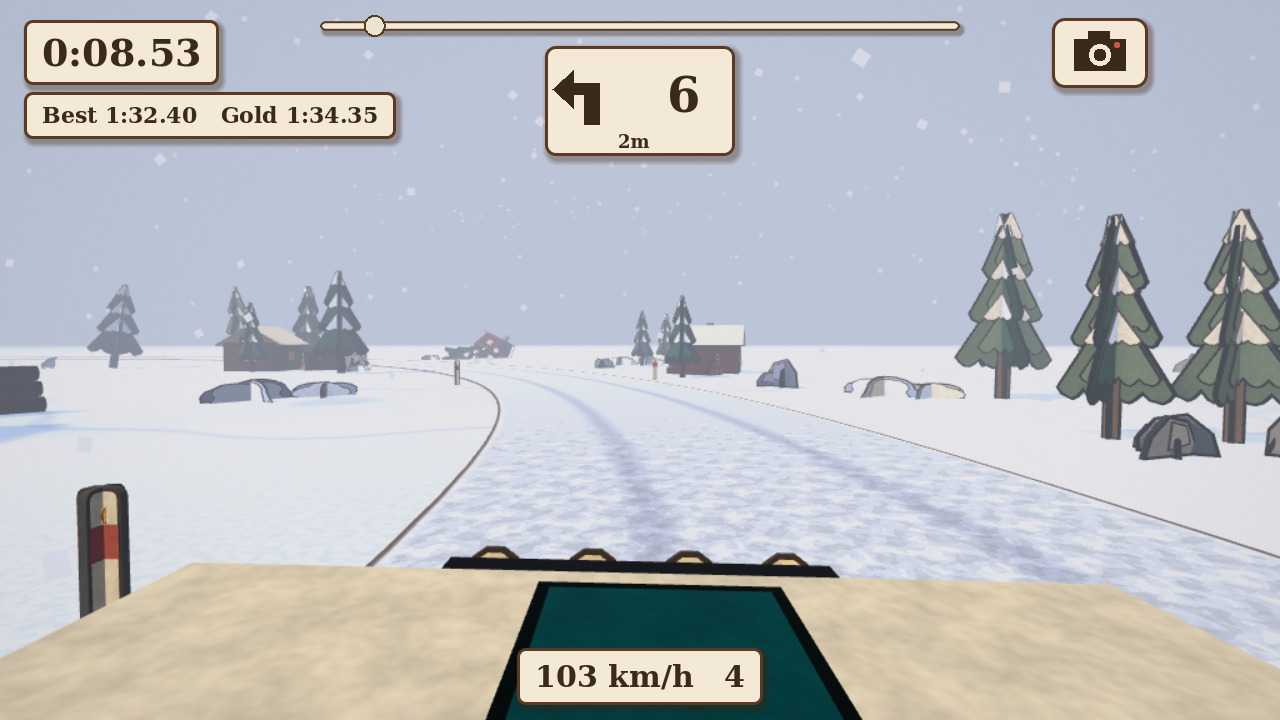
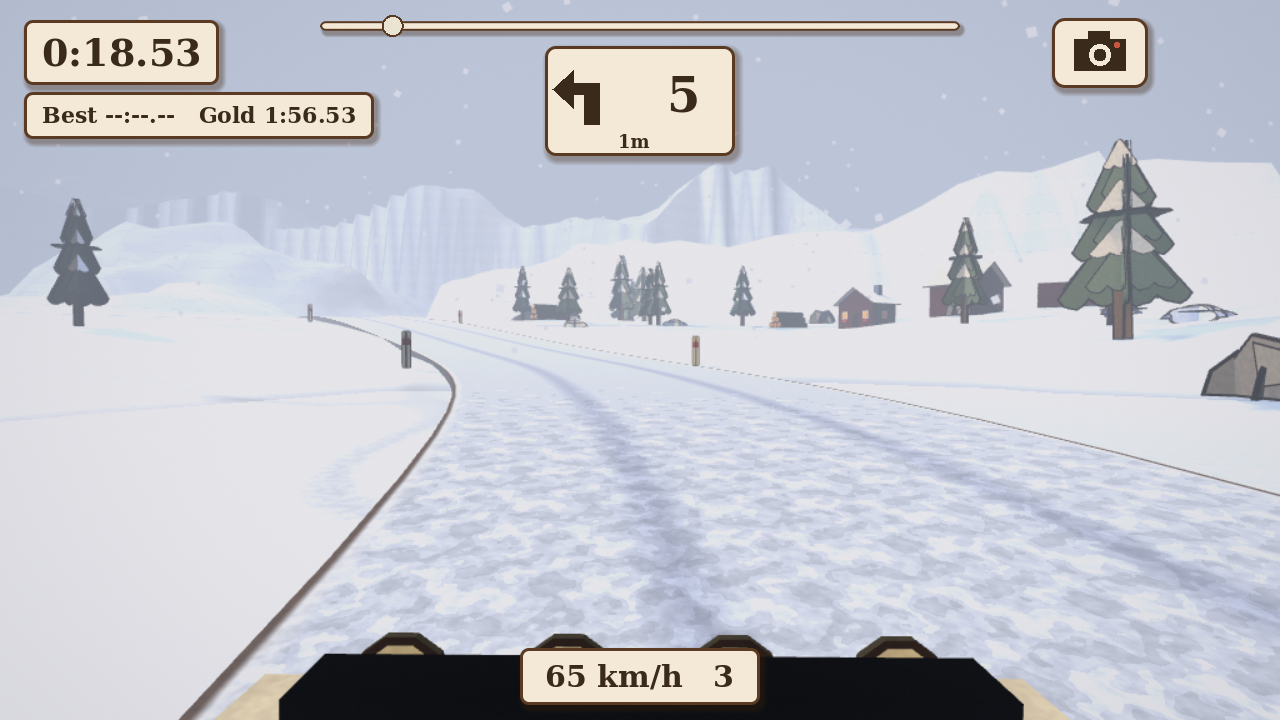
Photo mode, Time Trial ghost, liveries, visual damage, spectators jump back; README
Claude-Session: https://claude.ai/code/session_019LopR7CfQzTS2qzV1MAwgs

diff --git a/README.md b/README.md
@@ -20,7 +20,11 @@ screenshots.
 | ![](docs/screenshots/race_snow.png) | ![](docs/screenshots/race_taiga.png) |
 | **Jump with taped-off crowd** | **Water splash in Race vs AI** |
 | ![](docs/screenshots/jump.png) | ![](docs/screenshots/splash.png) |
-| **Bonnet view** | **High overhead view** |
+| **Night: headlights cast light and shadow** | **All 15 cars** |
+| ![](docs/screenshots/night.png) | ![](docs/screenshots/cars.png) |
+| **Cockpit view** | **Hills and stacked-card contours** |
+| ![](docs/screenshots/cockpit.png) | ![](docs/screenshots/terrain.png) |
+| **Bonnet view: Alpine climb** | **High overhead view** |
 | ![](docs/screenshots/bonnet.png) | ![](docs/screenshots/overhead.png) |
 | **Title (live diorama behind the menu)** | **Settings: presets, individual options, pop-up toggle** |
 | ![](docs/screenshots/title.png) | ![](docs/screenshots/settings.png) |
@@ -29,13 +33,19 @@ screenshots.
 
 | | |
 |---|---|
-| **Game modes** | **Time Trial** (best times, gold/silver/bronze medals), **Championship** (4 series of AI-contested stages with points: 10-8-6-4-2-1), **Race vs AI** (head-to-head on one stage, 3 or 5 opponents) |
-| **Stages** | 9 procedurally generated point-to-point stages: 3 dry (Meadow Run, Sandstone Canyon, Autumn Ridge), 3 rain (Moorland Mire, Pinewood Deluge, Harbour Lanes), 3 snow (Alpine Pass, Frozen Lakes, Twilight Taiga). Each one has its own palette, scenery set, light set and grip |
+| **Game modes** | **Time Trial** (best times, gold/silver/bronze medals and a ghost of your best run), **Championship** (6 series with points 10-8-6-4-2-1, including the always-at-night **Night Rally**), **Race vs AI** (head-to-head on one stage, 3 or 5 opponents) |
+| **Stages** | 27 procedurally generated point-to-point stages: 9 locations, each with a **Sprint (~1 km)**, **Classic (~2 km)** and **Marathon (~4 km)** layout. 3 dry (Meadow Run, Sandstone Canyon, Autumn Ridge), 3 rain (Moorland Mire, Pinewood Deluge, Harbour Lanes), 3 snow (Alpine Pass, Frozen Lakes, Twilight Taiga) |
+| **Altitude** | Every stage climbs, dips and rolls. A road altitude profile (overall climb, rolling undulation, maximum grade) and a landscape heightfield blend into each other. Hills, ridges and valleys rise and fall beside the road, drawn as stacked card contours. Climbs cost speed and descents add it, and crests can lift the car off the ground. Each location's layout and altitude are modelled on a real rally region: British farm lanes, Mexico / Acropolis mountain switchbacks, German vineyard ridges, Welsh moors, fast Finnish forest crests, Corsican coastal climbs, the Monte Carlo Col de Turini hairpin climb, the Swedish frozen lakes, Arctic forest |
+| **Time of day** | Day, Dusk or Night for any stage. At dusk and night every car's headlights light the road (the player's beam also casts shadows), lamp posts and cabin windows glow, and the shadows turn navy |
 | **Weather** | Rain: wet roads, puddles that splash and drag, paper rain streaks, about 72 % grip. Snow: paper snowflakes, cold lilac shadows, 49-56 % grip. Dry: dust trails |
-| **Cars** | 6 cars with different speed, acceleration, grip and handling: Pip 1300, Kestrel GT, Badger 4x4, Marten RS, Lynx Turbo, Otter Estate |
+| **Cars** | 15 original cars (no real makes or liveries) covering the classes found across rally games: 1960s classic (Ventura 60), 1970s Group 2 (Pip 1300, Comet 1600), 1980s Group B (Strega B, Tempest S1), Group S prototype (Wraith S), 1990s Group A (Marten RS, Kestrel GT), 2000s WRC (Lynx Turbo), modern Rally2 (Fennec R2) and Rally1 (Vortex R1), estate (Otter Estate), off-road 4x4 (Badger 4x4), trophy truck (Mule Trophy) and dune buggy (Sandhopper). Rear-drive cars slide under power, front-drive cars understeer, four-wheel drive is neutral, and off-road machines shrug off rough ground. 3 liveries each, and they pick up visible paper damage in crashes |
+| **Volumetric effects** | Dust, snow, spray, tyre and exhaust smoke (backfires, launches), chimney smoke and water-splash bursts are 3D faceted paper puffs that swell and fade, lit like the rest of the world. Low mist is layered cut-paper sheets lying in the valleys |
+| **Signage** | Fictional sponsor A-frame banners (FOLDLINE OIL, CARDSTOCK TYRES, CREASE COLA, PULPWORKS, SCISSOR SPEED, ORIGAMI AIR), billboards, warning boards before every hazard, kilometre boards, flags at the start and finish |
+| **Destructible props** | Marker posts, signs, banners, bales, crates, tape, bushes, snowbanks and chevrons break and tumble away when hit, then lie on the ground. Trees, rocks, logs and buildings stay solid. Spectators jump back when you come close |
+| **Photo mode** | From the pause menu: orbit a free camera, adjust blur, focus and warmth, hide the UI and save PNGs (to the phone's Pictures/Paper Rally folder where allowed, otherwise the app's photos folder) |
 | **Hazards** | Built paper ramps for **crests and jumps** (real airtime, landing thud and rumble), **water splashes** (drag, spray, splash sound), **hay-bale chicanes**, **loose surfaces** (gravel, mud, ice, deep snow patches with less grip), and **roadside obstacles**: marker posts, plus rocks, logs and bales on the inside of tight bends to punish corner cutting. Crowds stand behind tape at jumps and splashes and cheer as you pass |
 | **Co-driver** | Pace-note cards for each upcoming bend (direction, severity 1-6, hairpins) and for every hazard (JUMP, CREST, SPLASH, CHICANE, GRAVEL, MUD, ICE, DEEP SNOW) |
-| **Camera views** | Tap the **camera icon** (top right), press Back/LB on a controller or C on a keyboard to cycle: Chase, Close chase, Far chase, High overhead, Top-down and Bonnet. Bonnet is a low, wide view with a paper sky and fog |
+| **Camera views** | Tap the **camera icon** (top right), press Back/LB on a controller or C on a keyboard to cycle: Chase, Close chase, Far chase, High overhead, Top-down, Bonnet and **Cockpit**. Cockpit is an in-car view with a dashboard, pillars, a steering wheel that turns and a moving rev needle. Bonnet and Cockpit use a paper sky and fog |
 | **Living world** | Flocks of paper birds perch at fixed spots, pecking. They scatter when a car comes near, circle with flap-and-glide wingbeats while banking, then glide back down and land |
 | **Collisions** | Each car collides as its real box-shaped body, not a circle, so contact happens where the bodywork touches. Paper scraps burst from the contact point, and glancing blows nudge the car's yaw |
 | **Controllers** | Any Bluetooth or USB-C game controller (Xbox, PlayStation, 8BitDo and similar), with analog steering and triggers. All menus can be driven from the controller |
@@ -43,6 +53,31 @@ screenshots.
 | **Haptics** | Controller rumble for road texture, sliding, off-road, gear shifts, impacts, puddles, the countdown and the finish. Short, rate-limited phone vibration when no controller is connected. Strength slider and on/off toggles |
 | **Graphics settings** | Low / Medium / High presets plus individual options: render resolution, shadows, tilt-shift blur, MSAA, scenery density, draw distance, weather particles, paper fibre detail, 30/60 fps cap, FPS counter |
 | **Pop-up toggle** | *Settings → Graphics → Pop-up scenery animation*. **On**: every piece of scenery lies folded flat until it comes into the camera's view, then unfolds in staggered waves on a paper-flap spring, and folds away again once it is out of view. **Off**: the same paper scenery stands still and is batched into chunked MultiMeshes (far fewer draw calls). Switch it mid-race from the pause menu to compare |
+
+## Compared with art of rally
+
+Research into *art of rally* found these features in it: an era-based career (Group 2 to Group B, S
+and A), 50+ cars, free roam with collectibles, photo mode, replays, weather and time of day, and
+online events ([Wikipedia](https://en.wikipedia.org/wiki/Art_of_Rally),
+[TV Tropes](https://tvtropes.org/pmwiki/pmwiki.php/VideoGame/ArtOfRally),
+[GamePretty collectibles guide](https://gamepretty.com/art-of-rally-all-collectibles-guide/)).
+Reviewers criticised its single distant camera with no bonnet or driver cam, its lack of pace notes,
+night stages where terrain height is hard to read, repetitive locations, and damage that rarely
+matters ([gameblur](https://gameblur.net/reviews/game-reviews/art-of-rally-xbox-series-review/),
+[GameSpot user review](https://www.gamespot.com/art-of-rally/user-reviews/2200-12868954/)).
+
+| art of rally has | Paper Rally |
+|---|---|
+| Era classes from Group 2 to Group S | Yes: 15 cars from 1960s to modern Rally1, plus off-road classes it doesn't have (truck, buggy, 4x4) |
+| Weather and time of day | Yes: dry / rain / snow, and day / dusk / night with working headlights |
+| Photo mode | Yes (pause menu) |
+| Replays | Partly: a Time Trial ghost of your best run, but no full replay viewer yet |
+| Liveries | Yes: 3 per car |
+| Damage | Visual paper damage patches. It doesn't affect handling yet |
+| Career with unlocks | Not yet: every car and stage is open. Championship series are the closest |
+| Free roam and collectibles | Not yet |
+| Online leaderboards and daily events | Not yet (needs a server) |
+| Its weak spots | Covered: 7 camera views incl. bonnet and cockpit, pace notes for every bend and hazard, headlights and contour-lined terrain at night, 27 stages |
 
 ## Controls
 
@@ -90,6 +125,10 @@ scripts/world/track.gd      seeded stage generator, projection queries, pace not
 scripts/world/scenery.gd    clustered placement; pop-up (animated) vs batched (static) scenery
 scripts/world/stage.gd      lights, ground, road and ramps, gantries, hazards, puddles, rain/snow particles
 scripts/world/birds.gd      world-anchored bird flocks (perch, scatter, circle, land)
+scripts/world/terrain.gd    landscape heightfield blended to the road's altitude
+scripts/world/puffs.gd      volumetric paper puff emitters (dust, smoke, spray, chimneys)
+scripts/race/ghost.gd       Time Trial ghost recording and playback
+scripts/ui/photo_mode.gd    photo mode
 audio/kenney/               CC0 recorded sounds
 scripts/car/                paper car model, arcade rally physics, AI driver, player input
 scripts/race/               race controller (fixed 120 Hz physics, collisions, timing), chase camera
